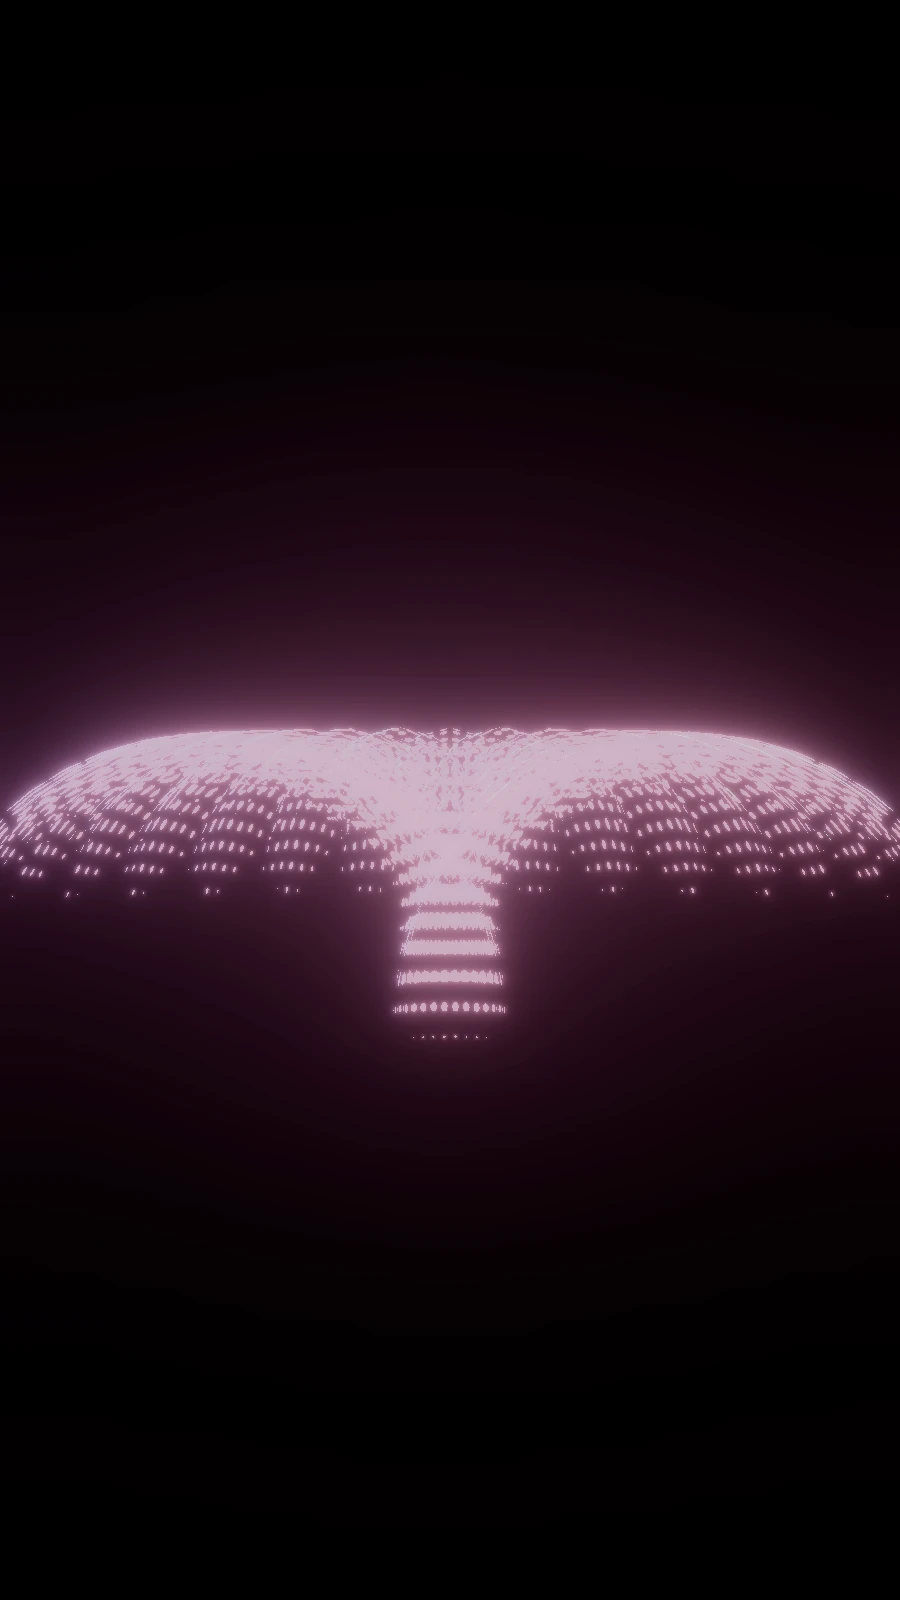
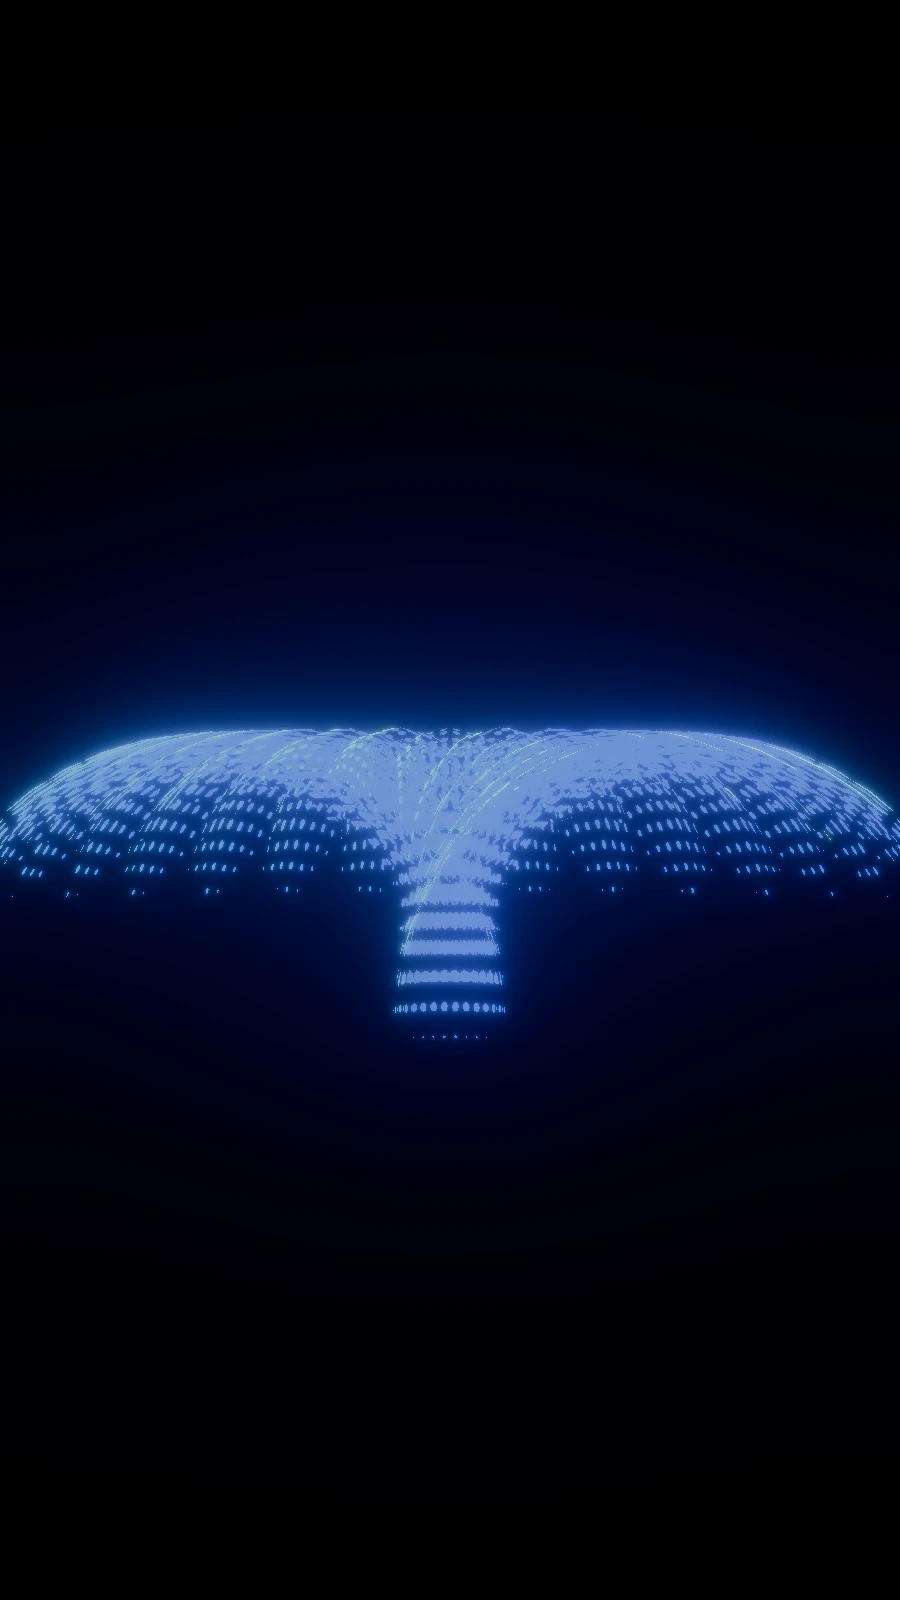
systems · try Majorelle blue on the background sphere only
Use Majorelle Vif for the sphere material and emission with a Neon secondary light. Preserve original Kiwi UI and logos, animation timing and geometry; regenerate matching fallback posters.

diff --git a/index.html b/index.html
@@ -9,17 +9,17 @@
 <meta property="og:title" content="Kiwi Systems — Vos idées prennent vie.">
 <meta property="og:description" content="Sites web, applications et Kiwi Commerce. Une branche de Kiwi, au Maroc.">
 <meta property="og:url" content="https://badro99.github.io/kiwi-systems/">
-<meta property="og:image" content="https://badro99.github.io/kiwi-systems/assets/scene/poster-landscape.webp?v=4">
+<meta property="og:image" content="https://badro99.github.io/kiwi-systems/assets/scene/poster-landscape.webp?v=7">
 <meta name="twitter:card" content="summary_large_image">
 <link rel="icon" href="assets/favicon.svg?v=6" type="image/svg+xml">
 
 
 <link rel="preload" href="assets/fonts/inter-tight-latin.woff2" as="font" type="font/woff2" crossorigin>
-<link rel="stylesheet" href="styles.css?v=6"><script defer src="app.js?v=4"></script><script type="module" src="scene.js?v=4"></script><script type="module" src="scroll.js?v=4"></script>
+<link rel="stylesheet" href="styles.css?v=6"><script defer src="app.js?v=4"></script><script type="module" src="scene.js?v=7"></script><script type="module" src="scroll.js?v=4"></script>
 </head>
 <body>
 <a class="skip" href="#main" data-i18n="skip">Aller au contenu</a>
-<div id="kiwi-scene" aria-hidden="true" data-state="loading"><picture class="scene-fallback"><source media="(orientation: portrait)" srcset="assets/scene/poster-portrait.webp?v=4"><img src="assets/scene/poster-landscape.webp?v=4" alt=""></picture></div>
+<div id="kiwi-scene" aria-hidden="true" data-state="loading"><picture class="scene-fallback"><source media="(orientation: portrait)" srcset="assets/scene/poster-portrait.webp?v=7"><img src="assets/scene/poster-landscape.webp?v=7" alt=""></picture></div>
 <header class="header"><div class="header-inner"><a class="brand" href="#top" aria-label="Kiwi Systems"><img src="assets/kiwi-systems.svg?v=6" alt="Kiwi Systems" width="175" height="46"></a><nav class="desktop-nav lens-group" aria-label="Navigation"><span class="kw-lens" aria-hidden="true"></span><a href="#services" data-i18n="navServices">Expertises</a><a href="#commerce">Kiwi Commerce</a><a href="#approach" data-i18n="navApproach">Notre approche</a></nav><div class="nav-actions"><a class="button nav-cta" href="#contact"><span data-i18n="talk">Parlons de votre projet</span><span class="arrow" aria-hidden="true">↗</span></a><div class="locale-dropdown" data-open="false"><button id="locale-trigger" class="locale-trigger" aria-expanded="false" aria-controls="locale-list" aria-label="Choisir la langue"><span id="locale-code">FR</span><svg width="12" height="12" viewBox="0 0 24 24" fill="none" stroke="currentColor" stroke-width="2" aria-hidden="true"><path d="m6 9 6 6 6-6"/></svg></button><div id="locale-list" class="locale-list" hidden><button data-locale="fr" lang="fr"><span>Français</span><small>FR</small></button><button data-locale="en" lang="en"><span>English</span><small>EN</small></button><button data-locale="ar" lang="ar"><span>العربية</span><small>AR</small></button></div></div><button class="menu-toggle" aria-label="Menu" aria-expanded="false" aria-controls="mobile-nav"><svg width="28" height="28" viewBox="0 0 24 24" fill="none" stroke="currentColor" stroke-width="1.3" aria-hidden="true"><path d="M4 5h16M4 12h16M4 19h16"/></svg></button></div></div></header>
 <nav id="mobile-nav" class="mobile-nav" aria-label="Navigation mobile" hidden><a href="#services"><span class="mobile-num">01</span><span data-i18n="navServices">Expertises</span><span>↗</span></a><a href="#commerce"><span class="mobile-num">02</span><span>Kiwi Commerce</span><span>↗</span></a><a href="#approach"><span class="mobile-num">03</span><span data-i18n="navApproach">Notre approche</span><span>↗</span></a><a href="#contact"><span class="mobile-num">04</span><span data-i18n="talk">Parlons de votre projet</span><span>↗</span></a><a href="https://kiwi-os.com" target="_blank" rel="noopener"><span class="mobile-num">05</span><span>Kiwi OS</span><span>↗</span></a></nav>
 <main id="main">

diff --git a/scene.js b/scene.js
@@ -1,12 +1,12 @@
 /**
  * Kiwi OS scene, ported from its shipped module 47373.
  * Original model, animation, camera, pointer easing and scroll keyframes
- * are preserved. Materials and lights use the Bougainvillée palette. Asset URLs are relative
+ * are preserved. Materials and lights use the Majorelle palette. Asset URLs are relative
  * to this module so the same scene works on GitHub project Pages.
  */
 import {THREE as T, POST as P} from './assets/vendor/kiwi-three.js';
 import {GLTFLoader, DRACOLoader} from './assets/vendor/kiwi-loaders.js';
-import {BOUGAINVILLEE as palette} from './theme.js';
+import {MAJORELLE as palette} from './theme.js?v=7';
 
 const host = document.querySelector('#kiwi-scene');
 const asset = path => new URL(path, import.meta.url).href;
@@ -33,7 +33,7 @@ if (renderer) {
   scene.add(modelGroup);
   const lights = [
     {color:palette.vif,intensity:25,distance:20,decay:1.76,position:[-1.0800012920987254,-.9419390674979656,1.2214126197837032]},
-    {color:palette.fleur,intensity:25,distance:34.15,decay:0,position:[.8663944921239622,1.1823807542632467,1.2214126197837032]}
+    {color:palette.neon,intensity:25,distance:34.15,decay:0,position:[.8663944921239622,1.1823807542632467,1.2214126197837032]}
   ];
   for (const settings of lights) {
     const light = new T.PointLight(settings.color,settings.intensity,settings.distance,settings.decay);
@@ -63,7 +63,7 @@ if (renderer) {
   alpha.wrapS = alpha.wrapT = T.ClampToEdgeWrapping;
   alpha.colorSpace = T.NoColorSpace;
   const material = new T.MeshPhysicalMaterial({
-    color:palette.vif,emissive:palette.fleur,emissiveIntensity:1,metalness:1,roughness:1,
+    color:palette.vif,emissive:palette.vif,emissiveIntensity:1,metalness:1,roughness:1,
     ior:1.5,reflectivity:.5,specularIntensity:0,alphaMap:alpha,alphaTest:.1,
     side:T.FrontSide,transparent:false
   });

diff --git a/theme.js b/theme.js
@@ -1,9 +1,8 @@
-// ÉDITION LIMITÉE · BOUGAINVILLÉE — exact colors from Kiwi brand.html.
-// Keep synchronized with brand-palette.json and the CSS custom properties.
-export const BOUGAINVILLEE = Object.freeze({
-  nuit: 0x1b0e2e,
-  velours: 0x5c1f4e,
-  vif: 0xc1487e,
-  fleur: 0xff8fc8,
+// Sphere-only Majorelle palette from Kiwi brand.html. The UI keeps Kiwi green.
+export const MAJORELLE = Object.freeze({
+  nuit: 0x0a1230,
+  velours: 0x1e2f7c,
+  vif: 0x3955d6,
+  neon: 0x5bd5ff,
   background: 0x000000
 });

diff --git a/README.md b/README.md
@@ -1,4 +1,4 @@
-# Kiwi Systems · original identity, pink sphere
+# Kiwi Systems · original identity, Majorelle sphere
 
 Kiwi’s websites, applications and Kiwi Commerce landing page. Standalone static site hosted on GitHub Pages. French, English and Arabic with RTL.
 
@@ -12,11 +12,11 @@ Open http://localhost:8080. ES modules require HTTP; opening index.html as a fil
 
 ## Shared Kiwi OS identity
 
-- `scene.js` ports the original landing’s scene module 47373: same animated GLB, alpha texture, camera, bloom, tone mapping, pointer easing and scroll keyframes. Its materials and lights use Bougainvillée; the old green-producing hue grade is removed.
+- `scene.js` ports the original landing’s scene module 47373: same animated GLB, alpha texture, camera, bloom, tone mapping, pointer easing and scroll keyframes. Its materials and lights use Majorelle; the old green-producing hue grade is removed.
 - `assets/vendor/kiwi-three.js` contains the exact shipped Three.js r170 and postprocessing code. `kiwi-loaders.js` contains the original GLTF and Draco loaders. `tools/extract-parent-runtime.py` regenerates these from the parent repository’s shipped chunks.
 - `scroll.js` uses the original Lenis 1.3.25 runtime and its desktop scroll settings; touch and reduced-motion keep native scrolling.
 - `app.js` ports Kiwi’s liquid-lens navigation behavior (module 98291), including the 115ms stretch before settling. The custom locale dropdown follows the parent landing’s component.
-- UI colors and all existing logo assets use the original Kiwi palette, including Systems and Commerce descriptors. Only the animated background sphere and its fallback/social images retain Bougainvillée. The background stays black. See `docs/brand-palette.md`.
+- UI colors and all existing logo assets use the original Kiwi palette, including Systems and Commerce descriptors. Only the animated background sphere and its fallback/social images retain Majorelle. The background stays black. See `docs/brand-palette.md`.
 - Systems uses the official Kiwi mark and the same descriptor layout as the approved Commerce lockup. Descriptor lettering is outlined Inter Tight, removing font substitution in SVG images. `tools/build-lockups.py` documents generation.
 - Inter Tight and IBM Plex Sans Arabic are served locally with their font licenses.
 
@@ -28,7 +28,7 @@ The three hero tabs explore the services. Contact service selection prepares a r
 
 ## Validation
 
-`node tools/palette-check.cjs` checks the restored UI/logo colors against the original version and confirms the pink sphere and its fallback assets remain unchanged.
+`node tools/palette-check.cjs` checks the restored UI/logo colors against the original version and confirms the Majorelle sphere and its fallback assets remain unchanged.
 
 
 `NODE_PATH=/path/to/playwright/node_modules node tools/browser-check.cjs http://127.0.0.1:8080`

diff --git a/docs/brand-palette.md b/docs/brand-palette.md
@@ -1,10 +1,9 @@
-# Original Kiwi identity with a Bougainvillée sphere
+# Original Kiwi identity with a Majorelle sphere
 
-Current direction: restore the original Kiwi colors everywhere except the animated background sphere, which stays pink. The background remains black.
+Only the background sphere uses the alternate palette. UI, logos, text, layout and interaction retain their original Kiwi identity. The background remains black.
 
-- `styles.css` and the existing SVG assets are restored exactly from the original Kiwi Systems version (`b48ff50`). This includes Systems and Commerce descriptors, wordmarks, monogram, favicon, sparkle, UI tints, accent text, status dots and decorative connection animations.
-- `scene.js` and `theme.js` retain the Bougainvillée sphere material, lighting and animation without changes. Nuit `#1B0E2E`, Velours `#5C1F4E`, Vif `#C1487E`, Fleur `#FF8FC8` remain the sphere palette.
-- The existing pink fallback posters and social-preview image are retained.
-- Layout, copy, interaction and scroll timing remain unchanged.
+Majorelle Vif `#3955D6` is the primary sphere color and emission. Majorelle Néon `#5BD5FF` supplies the secondary light. The reference palette also records Nuit `#0A1230` and Velours `#1E2F7C`.
 
-All project files live in `Documents/kiwi-systems`. Kiwi OS files and master logo assets remain untouched.
+Camera, model, animation, bloom, scroll choreography and pointer easing are unchanged. Fallback posters and the social-preview image are recaptured from this scene.
+
+All files remain in `Documents/kiwi-systems`. Kiwi OS is untouched.
